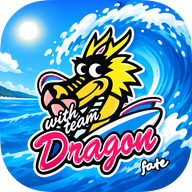
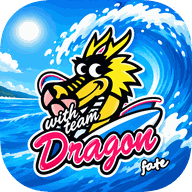
v1.16：ホーム画面に入れ直せない問題への対処
ホーム画面用の設定を新しい名前(app.webmanifest)と新しい番号(id)で作り直し、スマホに残った
古い登録とぶつからないようにした。アイコンも色数をしぼって軽くした（447KB→61KB）。

diff --git a/index.html b/index.html
@@ -6,7 +6,7 @@
 <title>波どこ？ 伊良湖・静岡</title>
 <meta name="description" content="今日の風とうねりから、伊良湖・静岡のどのポイントが良さそうかを◎○△×で出す無料アプリ。">
 <meta name="theme-color" content="#0b6fa4">
-<link rel="manifest" href="manifest.json">
+<link rel="manifest" href="app.webmanifest">
 <link rel="icon" href="icon-192.png" type="image/png">
 <link rel="apple-touch-icon" href="icon-192.png">
 <style>
@@ -157,7 +157,7 @@ footer a{color:var(--sea)}
 
 <script src="photos.js"></script>
 <script>
-const VERSION = 'v1.15';
+const VERSION = 'v1.16';
 
 // ───── ポイントの特徴データ（ここを直すと判定が変わる） ─────
 // face   : 海岸が向いている方角（度。北0・東90・南180・西270）＝オフショアになる風の反対側

diff --git a/sw.js b/sw.js
@@ -1,7 +1,7 @@
 // 波どこ？ Service Worker（アプリを裏で支える小さなプログラム）
 // 画面の部品だけを保存する。予測データはアプリ側が端末に保存するので、ここでは触らない。
-const CACHE = 'nami-doko-v1.15';
-const SHELL = ['./', 'index.html', 'photos.js', 'manifest.json', 'icon.svg', 'icon-192.png', 'icon-512.png', 'icon-maskable-512.png'];
+const CACHE = 'nami-doko-v1.16';
+const SHELL = ['./', 'index.html', 'photos.js', 'app.webmanifest', 'icon.svg', 'icon-192.png', 'icon-512.png', 'icon-maskable-512.png'];
 
 self.addEventListener('install', e => {
   e.waitUntil(caches.open(CACHE).then(c => c.addAll(SHELL)).then(() => self.skipWaiting()));
